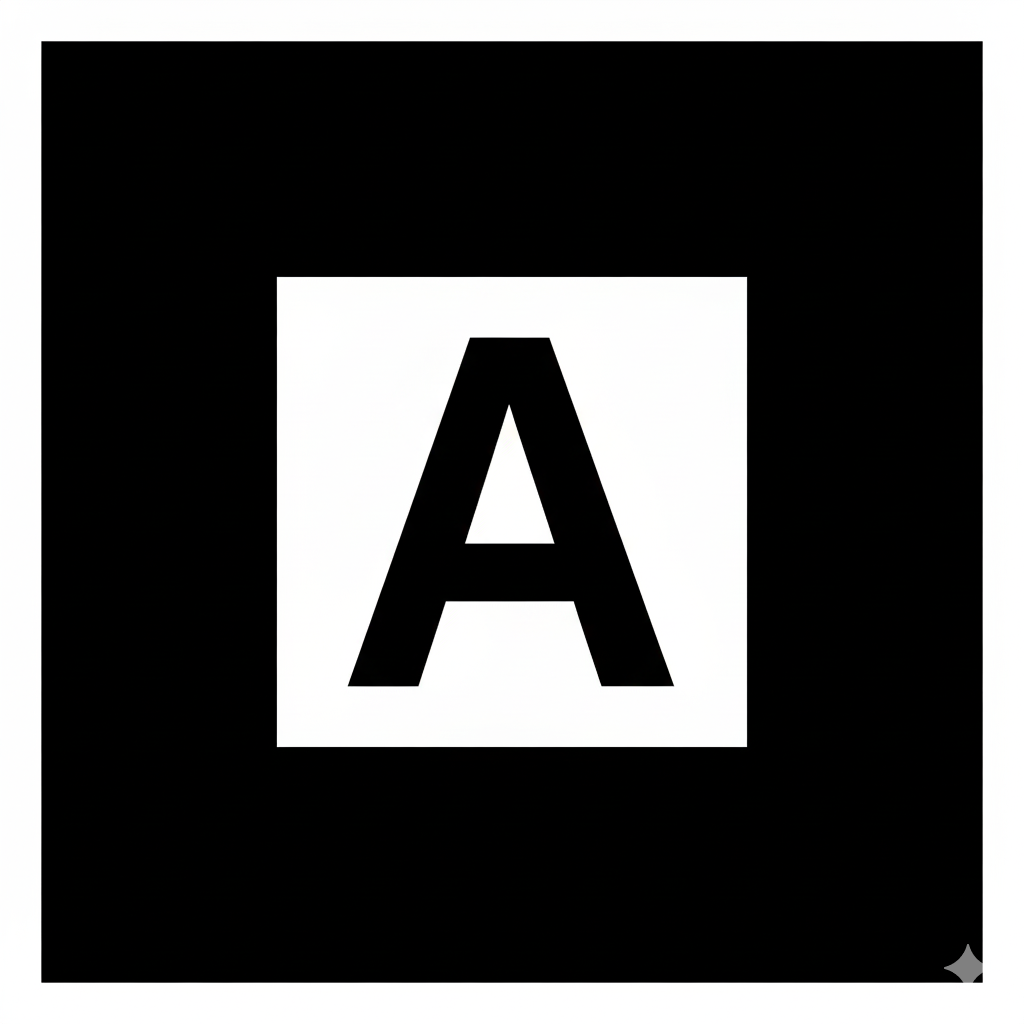
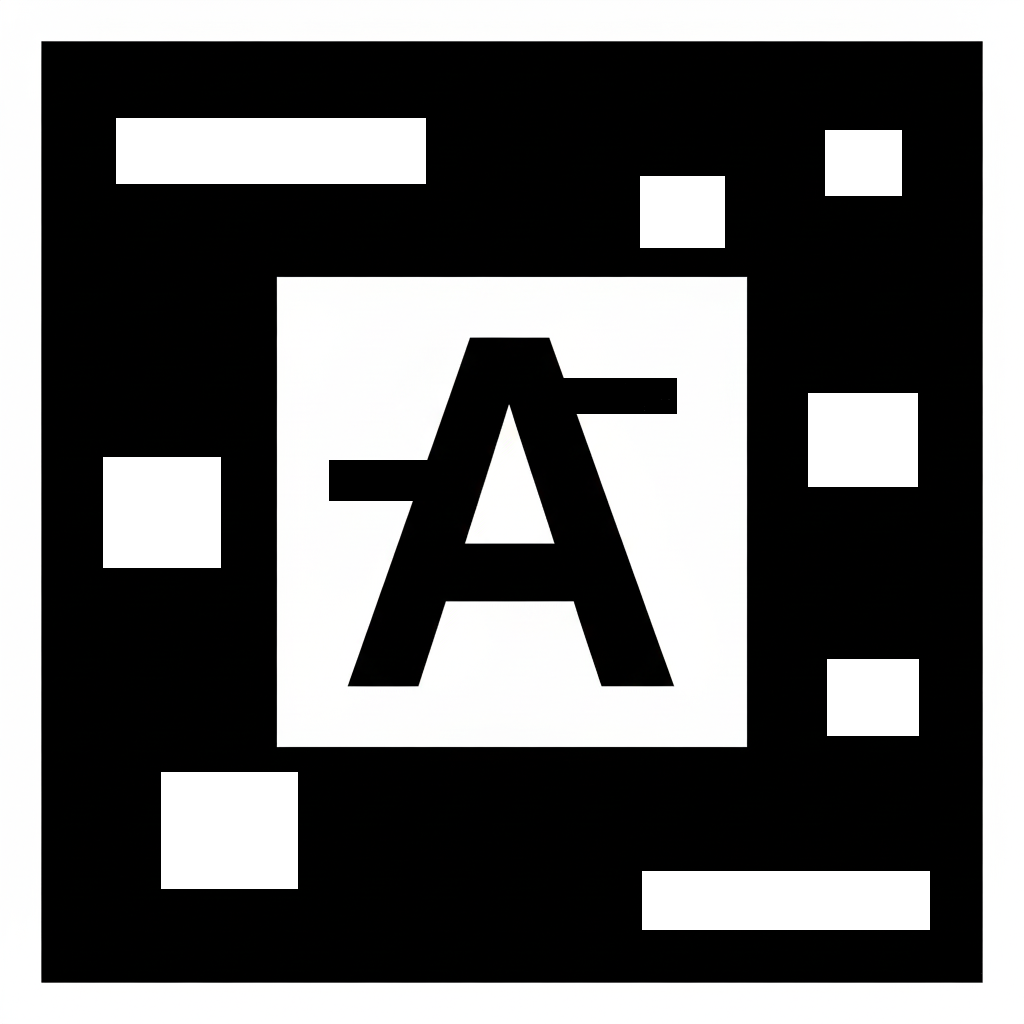
añadir imagenes marker y corregir scale e iluminacion gato

diff --git a/src/pages/ArCam.jsx b/src/pages/ArCam.jsx
@@ -10,12 +10,15 @@ export default function ArCam() {
         arjs="sourceType: webcam; debugUIEnabled: true;"
         light="defaultLightsEnabled: false"
       >
-        <a-light type="ambient" intensity="3"></a-light>
+        <a-light type="ambient" intensity="4"></a-light>
 
-        <a-light type="directional" position="0 2 2" intensity="3"></a-light>
+        <a-light type="directional" position="0 2 2" intensity="4"></a-light>
 
-        <a-marker preset="hiro">
-          <a-entity gltf-model="/models/scratch2.glb" scale="4 0.5 2"></a-entity>
+        <a-marker type="pattern" url="/markers/pattern-marker-a.patt">
+          <a-entity
+            gltf-model="/models/scratch2.glb"
+            scale="4 0.5 2"
+          ></a-entity>
         </a-marker>
 
         <a-entity camera></a-entity>
